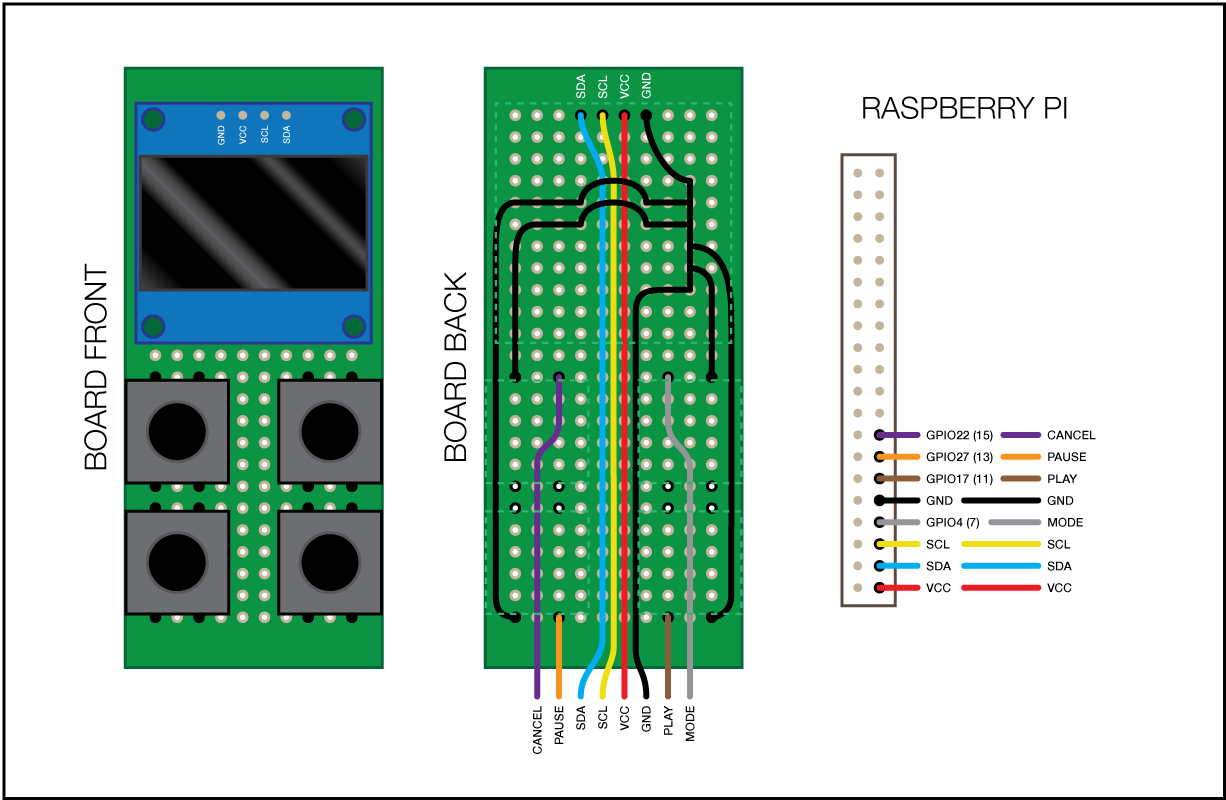
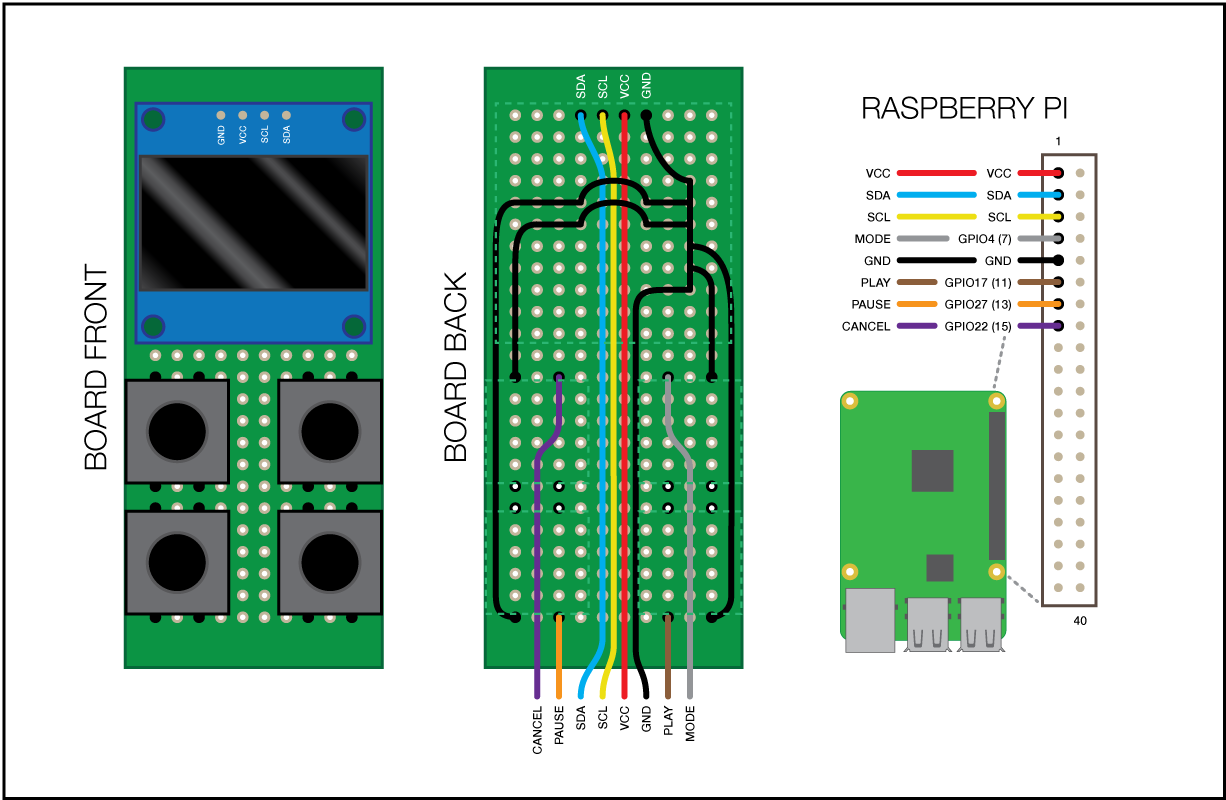
docs(readme): update hardware instructions to include i2c setup, update wiring diagram

Changed region(s): [[0.6819, 0.1875, 0.8989, 0.8125]]

diff --git a/README.md b/README.md
@@ -12,7 +12,7 @@ This plugin implements the software control side of an OctoPrint Control Panel f
 
 Besides the [3D printed parts](https://www.thingiverse.com/thing:4674214), you will need the following parts:
 
-- 1x 30x70mm proto board (similar to [this product](https://www.amazon.com/gp/product/B06XGWSWT1))
+- 1x 30x70mm proto board ([Amazon](https://www.amazon.com/gp/product/B06XGWSWT1))
 - 1x 0.96" i2c OLED display ([Amazon](https://www.amazon.com/gp/product/B0833PF7ML))
 - 4x 12mm tactile buttons ([Amazon](https://www.amazon.com/gp/product/B019I11FI2))
 - Wires
@@ -27,10 +27,32 @@ Once the board is wired up, run the wires through the hole in the back of the ba
 
 **NOTE:** This plugin required OctoPrint to be updated to run on Python 3. Please follow [these instructions](https://community.octoprint.org/t/upgrade-your-octoprint-install-to-python-3/23973) if you are not already on Python 3.
 
-Install via the bundled [Plugin Manager](https://docs.octoprint.org/en/master/bundledplugins/pluginmanager.html)
-or manually using this URL:
+First ensure i2c is enabled on the Pi by running `sudo raspi-config` and navigating to `Interfacing Options` > `I2C` > `<Yes>` > `<OK>`. Exit the config tool, then restart the Pi.
 
-    https://github.com/sethvoltz/OctoPrint-DisplayPanel/archive/master.zip
+After restarting, install `i2c-tools` and make sure the Pi can see the display.
+
+```bash
+$ sudo apt-get update && sudo apt-get install i2c-tools
+...
+$ sudo i2cdetect -y 1
+     0  1  2  3  4  5  6  7  8  9  a  b  c  d  e  f
+00:          -- -- -- -- -- -- -- -- -- -- -- -- --
+10: -- -- -- -- -- -- -- -- -- -- -- -- -- -- -- --
+20: -- -- -- -- -- -- -- -- -- -- -- -- -- -- -- --
+30: -- -- -- -- -- -- -- -- -- -- -- -- 3c -- -- --
+40: -- -- -- -- -- -- -- -- -- -- -- -- -- -- -- --
+50: -- -- -- -- -- -- -- -- -- -- -- -- -- -- -- --
+60: -- -- -- -- -- -- -- -- -- -- -- -- -- -- -- --
+70: -- -- -- -- -- -- -- --
+```
+
+The `3c` there is the OLED display. If you don't see it, check your wiring and try rebooting the pi again.
+
+With I2C confirmed, install via the bundled [Plugin Manager](https://docs.octoprint.org/en/master/bundledplugins/pluginmanager.html) or manually using this URL:
+
+```none
+https://github.com/sethvoltz/OctoPrint-DisplayPanel/archive/master.zip
+```
 
 ## Configuration
 
